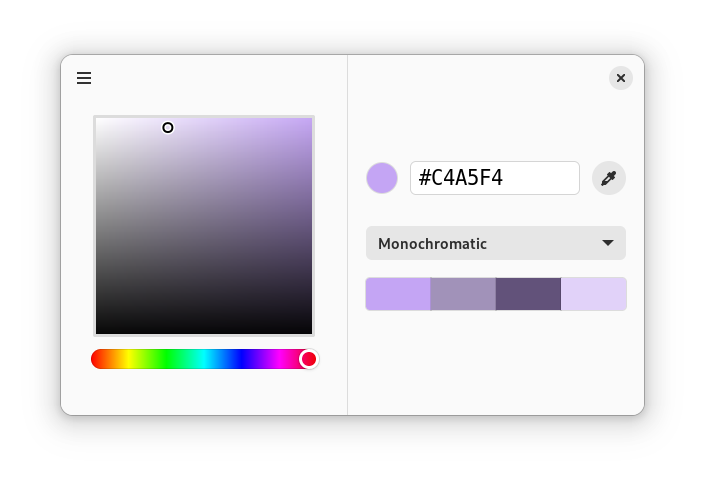
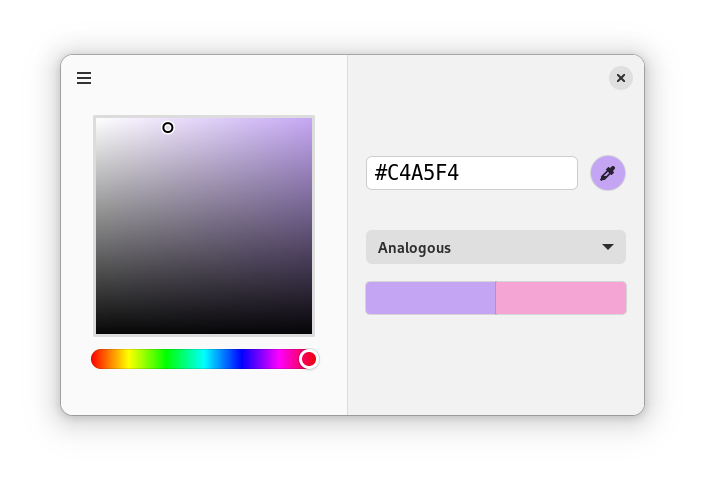
* - Make color picker the actual color instead of having the color preview by the entry.

Changed region(s): [[0.4993, 0.4979, 0.905, 0.6535], [0.4993, 0.3112, 0.8113, 0.4046], [0.8113, 0.3112, 0.905, 0.4046]]

diff --git a/data/style.css b/data/style.css
@@ -37,3 +37,7 @@
   border: 3px solid @borders;
   border-radius: 2px;
 }
+
+.clr-props {
+  background: shade(@view_bg_color, 0.95);
+}
